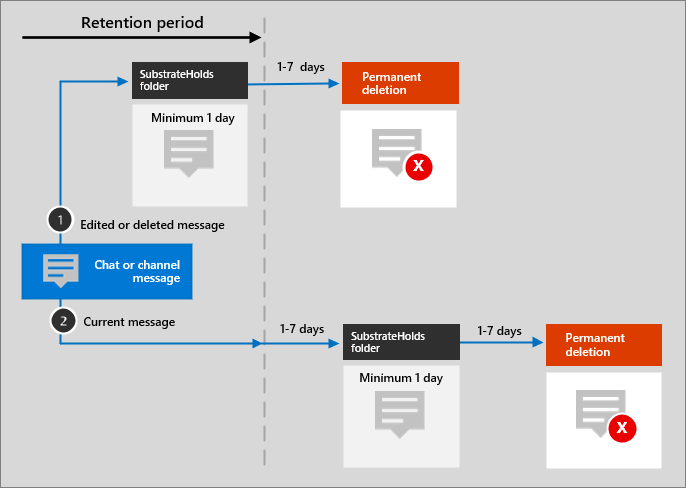
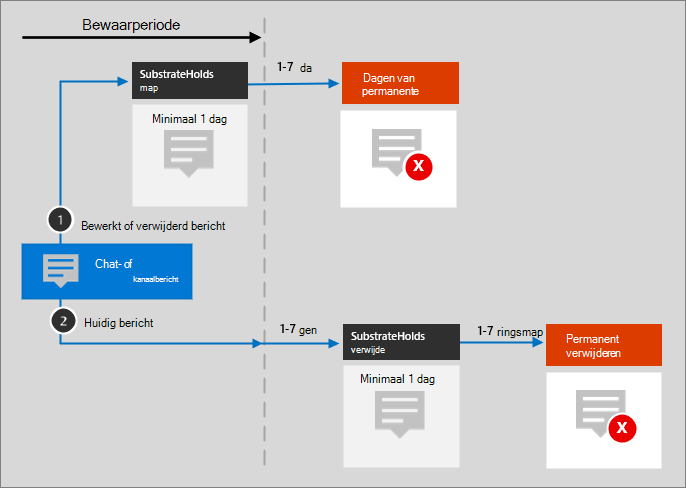
commit translated contents

diff --git a/microsoft-365/compliance/content-search-reference.md b/microsoft-365/compliance/content-search-reference.md
@@ -1,5 +1,5 @@
 ---
-title: Naslag functie voor Inhoud zoeken
+title: Functienaslag voor Inhoud zoeken
 f1.keywords:
 - NOCSH
 ms.author: markjjo
@@ -19,7 +19,7 @@ search.appverid:
 - MET150
 ms.custom:
 - seo-marvel-apr2020
-description: Dit artikel bevat naslaginformatie over het eDiscovery-hulpmiddel voor Inhoud zoeken in het Microsoft 365-compliancecentrum, om u te helpen de vele details over Inhoud zoeken te leren.
+description: Dit artikel bevat naslaginformatie over het eDiscovery-hulpmiddel voor Inhoud zoeken in het Microsoft 365-compliancecentrum, om je te helpen de vele details over Inhoud zoeken beter te leren kennen.
 ms.openlocfilehash: f3545cc4644ca8b0a96ee37713d8fe62be7466e5
 ms.sourcegitcommit: 967f64dfa1a05f31179c8316b96bfb7758a5d990
 ms.translationtype: HT
@@ -27,9 +27,9 @@ ms.contentlocale: nl-NL
 ms.lasthandoff: 05/12/2021
 ms.locfileid: "52332892"
 ---
-# <a name="feature-reference-for-content-search"></a>Naslag functie voor Inhoud zoeken
+# <a name="feature-reference-for-content-search"></a>Functienaslag voor Inhoud zoeken
 
-Dit artikel omschrijft functies en functionaliteit van Inhoud zoeken.
+Dit artikel beschrijft functies en functionaliteit van Inhoud zoeken.
 
 ## <a name="content-search-limits"></a>Limieten voor Inhoud zoeken
 
@@ -71,11 +71,11 @@ Houd rekening met het volgende wanneer u de lijst met trefwoorden gebruikt om ee
   
 - Wanneer u een inhoudszoekopdracht uitvoert, controleert Microsoft 365 automatisch uw zoekopdracht op niet-ondersteunde tekens en op Booleaanse operatoren die mogelijk niet in hoofdletters zijn geschreven. Niet-ondersteunde tekens zijn vaak verborgen en veroorzaken gewoonlijk een zoekfout of geven onbedoelde resultaten. Zie [De query van Inhoud zoeken op fouten controleren](check-your-content-search-query-for-errors.md) voor meer informatie over de niet-ondersteunde tekens die worden gecontroleerd.
     
-- Als u een zoekquery hebt met trefwoorden voor niet-Nederlandstalige tekens (bijvoorbeeld Chinese tekens ), kunt u op **Taal-land/regio voor query**![pictogram Taal-land/regio voor query in Inhoud zoeken](../media/8d4b60c8-e1f1-40f9-88ae-ee2a7eca0886.png) klikken en een cultuurcodewaarde voor taal/regio voor de zoekopdracht selecteren. De standaardtaal/-regio is neutraal. Hoe weet ik of ik de taalinstelling voor een inhoudzoekactie moet wijzigen? Als u er zeker van bent dat bepaalde inhoudslocaties de niet-Nederlandstalige tekens bevatten die u zoekt, maar de zoekopdracht geen resultaten oplevert, kan de taalinstelling de oorzaak zijn. 
+- Als u een zoekquery hebt met trefwoorden voor niet-Nederlandstalige tekens (bijvoorbeeld Chinese tekens ), kunt u op **Taal-land/regio voor query**![pictogram Taal-land/regio voor query in Inhoud zoeken](../media/8d4b60c8-e1f1-40f9-88ae-ee2a7eca0886.png) klikken en een cultuurcodewaarde voor taal/regio voor de zoekopdracht selecteren. De standaardtaal/-regio is neutraal. Hoe weet ik of ik de taalinstelling voor een inhoudzoekactie moet wijzigen? Als je er zeker van bent dat bepaalde inhoudslocaties de niet-Nederlandse tekens bevatten die je zoekt, maar de zoekopdracht geen resultaten oplevert, kan de taalinstelling de oorzaak zijn. 
   
 ## <a name="partially-indexed-items"></a>Gedeeltelijk geïndexeerde items
 
-- Gedeeltelijk geïndexeerde items worden in postvakken opgenomen in de geschatte zoekresultaten. Gedeeltelijk geïndexeerde items uit SharePoint en OneDrive worden niet in de geschatte zoekresultaten opgenomen. Zie [Gedeeltelijk geïndexeerde items in eDiscovery](partially-indexed-items-in-content-search.md) voor meer informatie.
+- Gedeeltelijk geïndexeerde items in postvakken worden opgenomen in de geschatte zoekresultaten. Gedeeltelijk geïndexeerde items uit SharePoint en OneDrive worden niet opgenomen in de geschatte zoekresultaten. Zie [Gedeeltelijk geïndexeerde items in eDiscovery](partially-indexed-items-in-content-search.md) voor meer informatie.
 
 ## <a name="searching-onedrive-accounts"></a>Zoeken in OneDrive-accounts
 
@@ -233,9 +233,9 @@ Als de Exchange Online-licentie (of de volledige Microsoft 365-licentie) wordt v
 
 - Als u de cmdlet **New-ComplianceSearch** gebruikt om een inhoudzoekactie te maken en een losgekoppeld postvak op te geven als de te doorzoeken Exchange-inhoudslocatie, retourneert de inhoudzoekopdracht geen zoekresultaten voor het losgekoppelde postvak.
 
-Als u de gegevens in een losgekoppeld postvak wilt bewaren zodat deze doorzoekbaar is, moet u een bewaring voor het postvak instellen voordat u de licentie verwijdert. Hierdoor blijven de gegevens behouden en blijft het losgekoppelde postvak doorzoekbaar totdat de bewaring wordt verwijderd. Zie [Het type bewaring vaststellen dat op een Exchange Online-postvak is ingesteld](identify-a-hold-on-an-exchange-online-mailbox.md) voor meer informatie over bewaringen.
+Als u de gegevens in een losgekoppeld postvak wilt bewaren zodat deze doorzoekbaar is, moet u een bewaring voor het postvak instellen voordat u de licentie verwijdert. Hierdoor blijven de gegevens behouden en blijft het losgekoppelde postvak doorzoekbaar totdat de bewaring wordt verwijderd. Zie [Bepalen welk type bewaring geldt voor een Exchange Online-postvak](identify-a-hold-on-an-exchange-online-mailbox.md) voor meer informatie over bewaringen.
 
-## <a name="searching-for-content-in-a-sharepoint-multi-geo-environment"></a>Zoeken naar inhoud in een SharePoint Multi-Geo-omgeving
+## <a name="searching-for-content-in-a-sharepoint-multi-geo-environment"></a>Inhoud zoeken in een SharePoint Multi-Geo-omgeving
 
 Als een eDiscovery-beheerder in een [SharePoint Multi-Geo-omgeving](../enterprise/multi-geo-capabilities-in-onedrive-and-sharepoint-online-in-microsoft-365.md) moet zoeken naar inhoud in SharePoint en OneDrive in verschillende regio's, moet u het volgende doen om dit mogelijk te maken:
 
